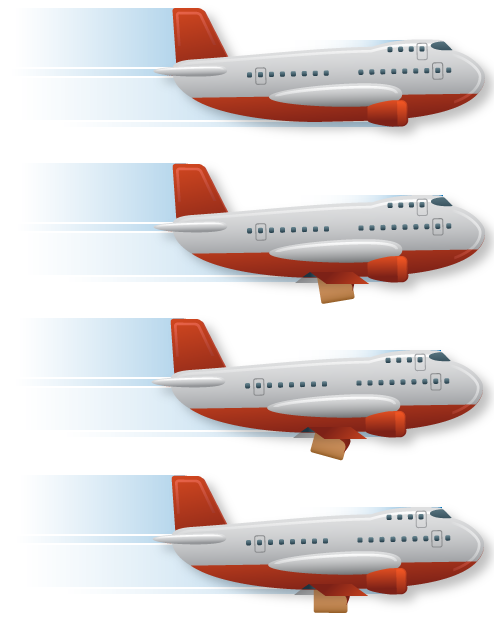
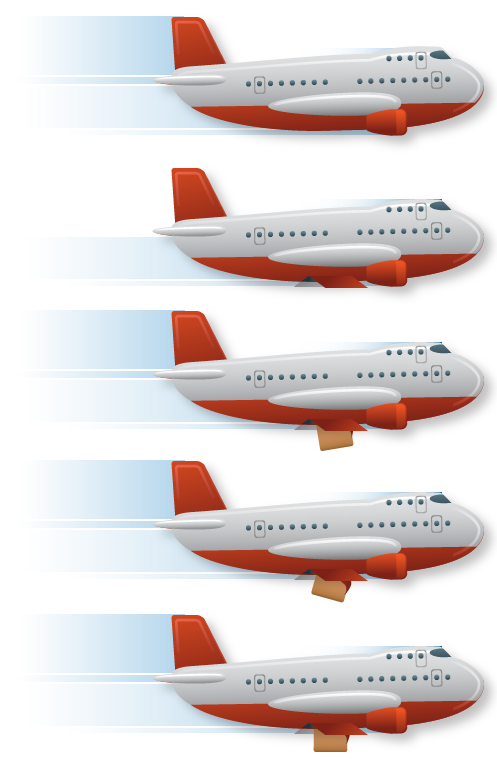
Update planes and gameOver images

diff --git a/asset/js/state/preload.js b/asset/js/state/preload.js
@@ -33,7 +33,7 @@ Preload.prototype.preload = function() {
     this.load.image('gameOver', 'asset/img/gameOver.png');
 
     // Sprites
-    this.load.spritesheet('planes', 'asset/img/planes.png', 494, 155, 4);
+    this.load.spritesheet('planes', 'asset/img/planes.png', 497, 151.8, 5);
     this.load.spritesheet('boxes', 'asset/img/boxes.png', 97, 108, 3);
     this.load.spritesheet('boxHitSea', 'asset/img/boxHitSea.png', 42, 42, 3);
     this.load.spritesheet('buttons', 'asset/img/buttons.png', 167, 81, 6);
@@ -51,8 +51,8 @@ Preload.prototype.create = function() {
 
 Preload.prototype.update = function() {
     if (this._ready) {
-        this.game.state.start('menu');
-        //this.game.state.start('gameOver');
+        //this.game.state.start('menu');
+        this.game.state.start('play');
     }
 };
 
